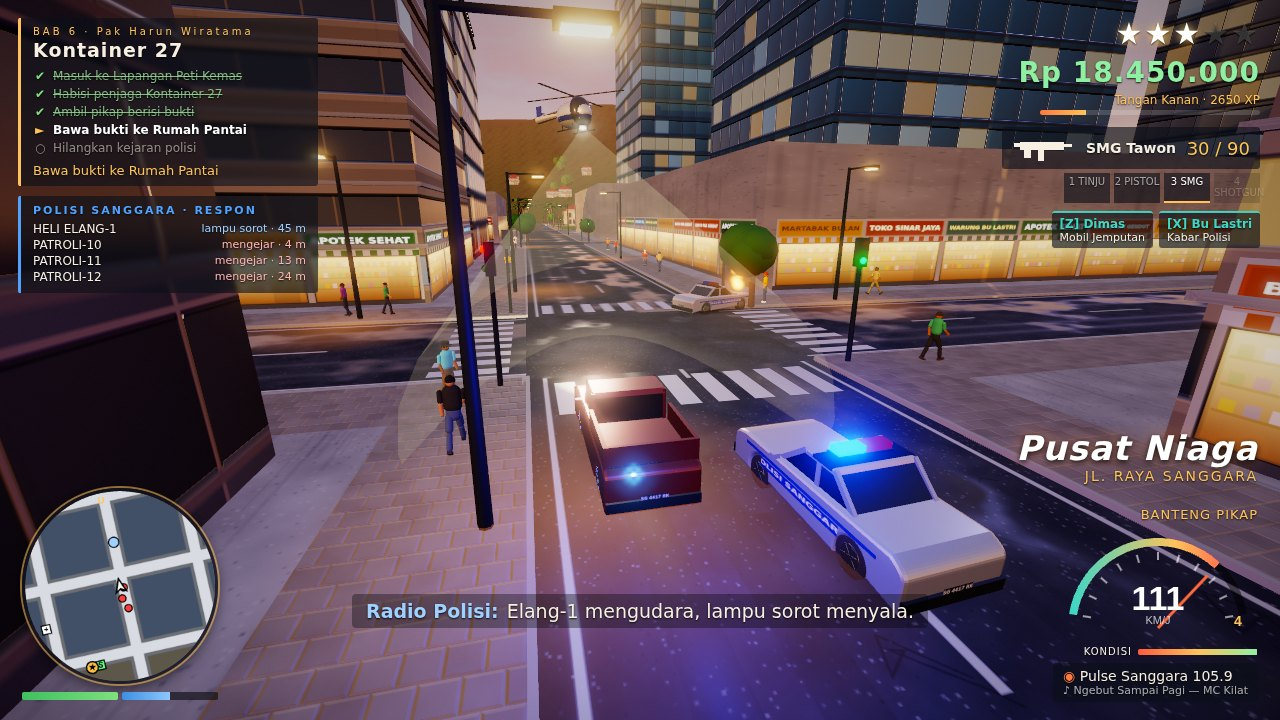
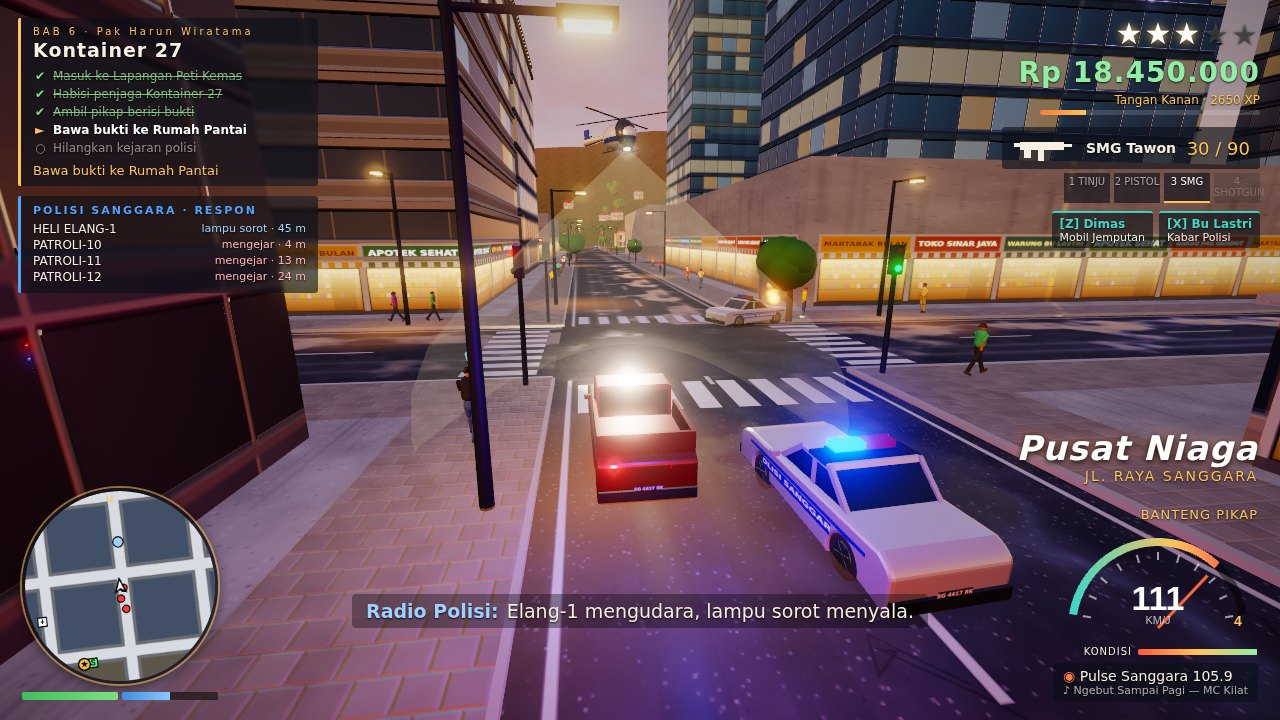
Cover framing: helicopter and searchlight centred over the chase

diff --git a/game/src/debug/screenshot-director.js b/game/src/debug/screenshot-director.js
@@ -65,7 +65,7 @@ const SCENES = {
     s.traffic.populate(0, 0, 24);
     s.peds.populate(0, 20, 34);
     s.radio.index = 3; s.radio.on = true;
-    const yaw = Math.PI - 0.22, pitch = 0.36;
+    const yaw = Math.PI - (Number(new URLSearchParams(location.search).get('yaw')) || 0.12), pitch = Number(new URLSearchParams(location.search).get('pitch')) || 0.3;
     simulate(s, 2.2, () => {
       s.input.simulateHold('KeyW', true);
       s.cameraRig.idleMouse = 0; s.cameraRig.yaw = yaw; s.cameraRig.pitch = pitch;
